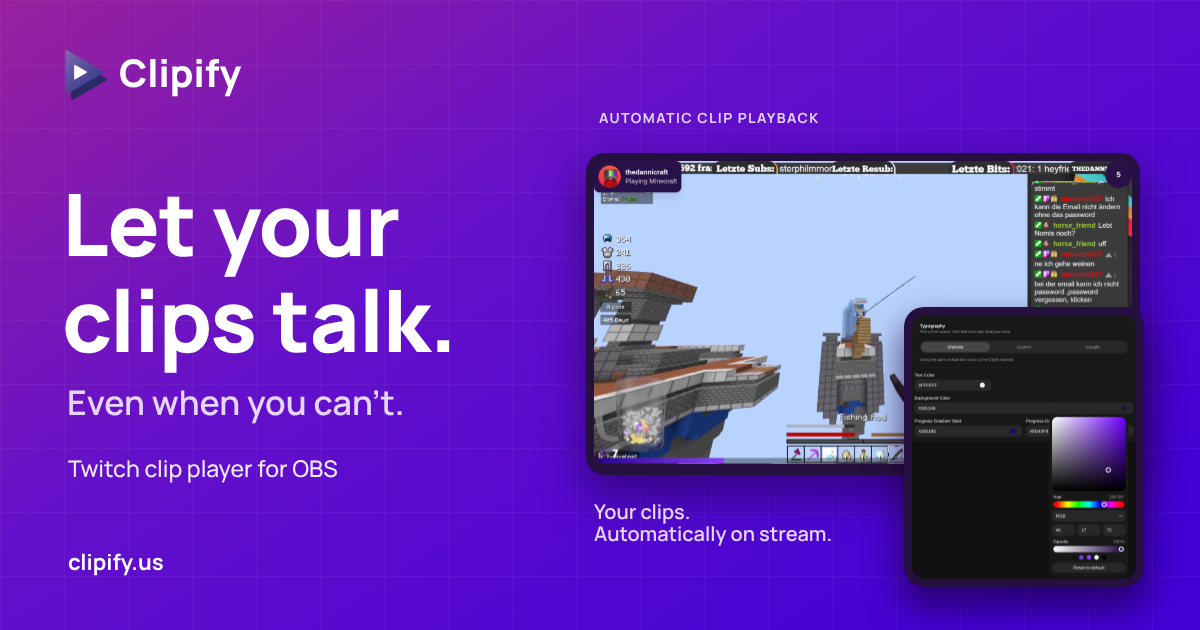
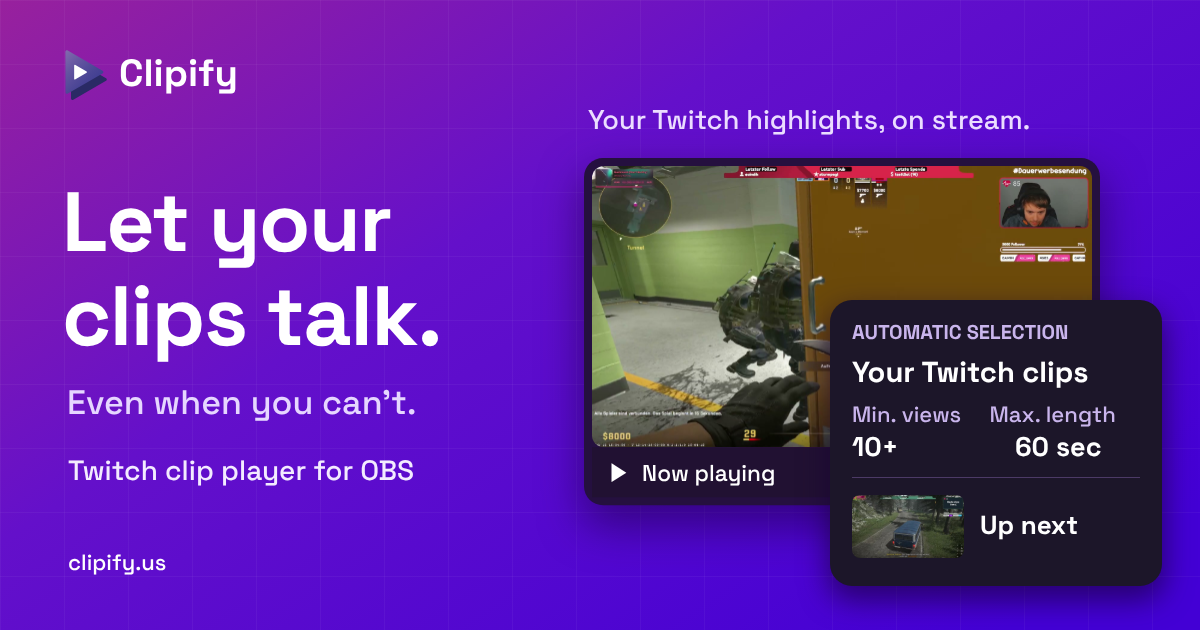
💄 Adopt approved Clipify social preview artwork

diff --git a/docs/public-pages-component-review.md b/docs/public-pages-component-review.md
@@ -397,6 +397,6 @@ The unchanged native playback image is 1664 × 936. The retained selection asset
 
 ## Dedicated social artwork — 30 October 2026
 
-The OG image is now designed in [Clipify Assets in Penpot](https://penport.cloud.thedannicraft.de/#/workspace?team-id=a0f8e0b8-835f-81d8-8008-b162b281549e&file-id=61024453-0cbc-8004-8008-deb071224a07&page-id=61024453-0cbc-8004-8008-deb071224a08), board `0a7bea9f-35ee-8086-8008-deb0eefa0329`. The 1200×630 PNG export replaces the homepage screenshot. Branding, typography, gradient, grid and product-image layers remain editable in that file; the playback and Theme Studio captures are existing actual product assets. No generated imagery or website navigation is included. The secondary panel shows Theme Studio rather than manual clip selection, while the copy explicitly describes automatic playback.
+The approved OG artwork is [Draft 05 in Clipify Assets in Penpot](https://penport.cloud.thedannicraft.de/#/workspace?team-id=a0f8e0b8-835f-81d8-8008-b162b281549e&file-id=61024453-0cbc-8004-8008-deb071224a07&page-id=61024453-0cbc-8004-8008-deb071224a08), board `f7942942-7705-80a6-8008-dee72fa12fb9`. The 1200×630 PNG uses Space Grotesk, Clipify branding and a native 1664×936 Counter-Strike clip frame. An overlapping illustrative panel shows automatic Twitch clip selection, minimum views, maximum length and the next clip. The panel extends beyond the playback frame on the right. Branding, typography and composition remain editable in Penpot. No generated imagery or website navigation is included.
 
 Public-route metadata shares a static image import, giving social crawlers a content-hashed image URL and explicit dimensions/alt text. Creator and member pages retain their individual cards. The existing `/og-image.png` URL remains available. Browser checks cover OG/Twitter tags and image delivery across the seven main public pages.
